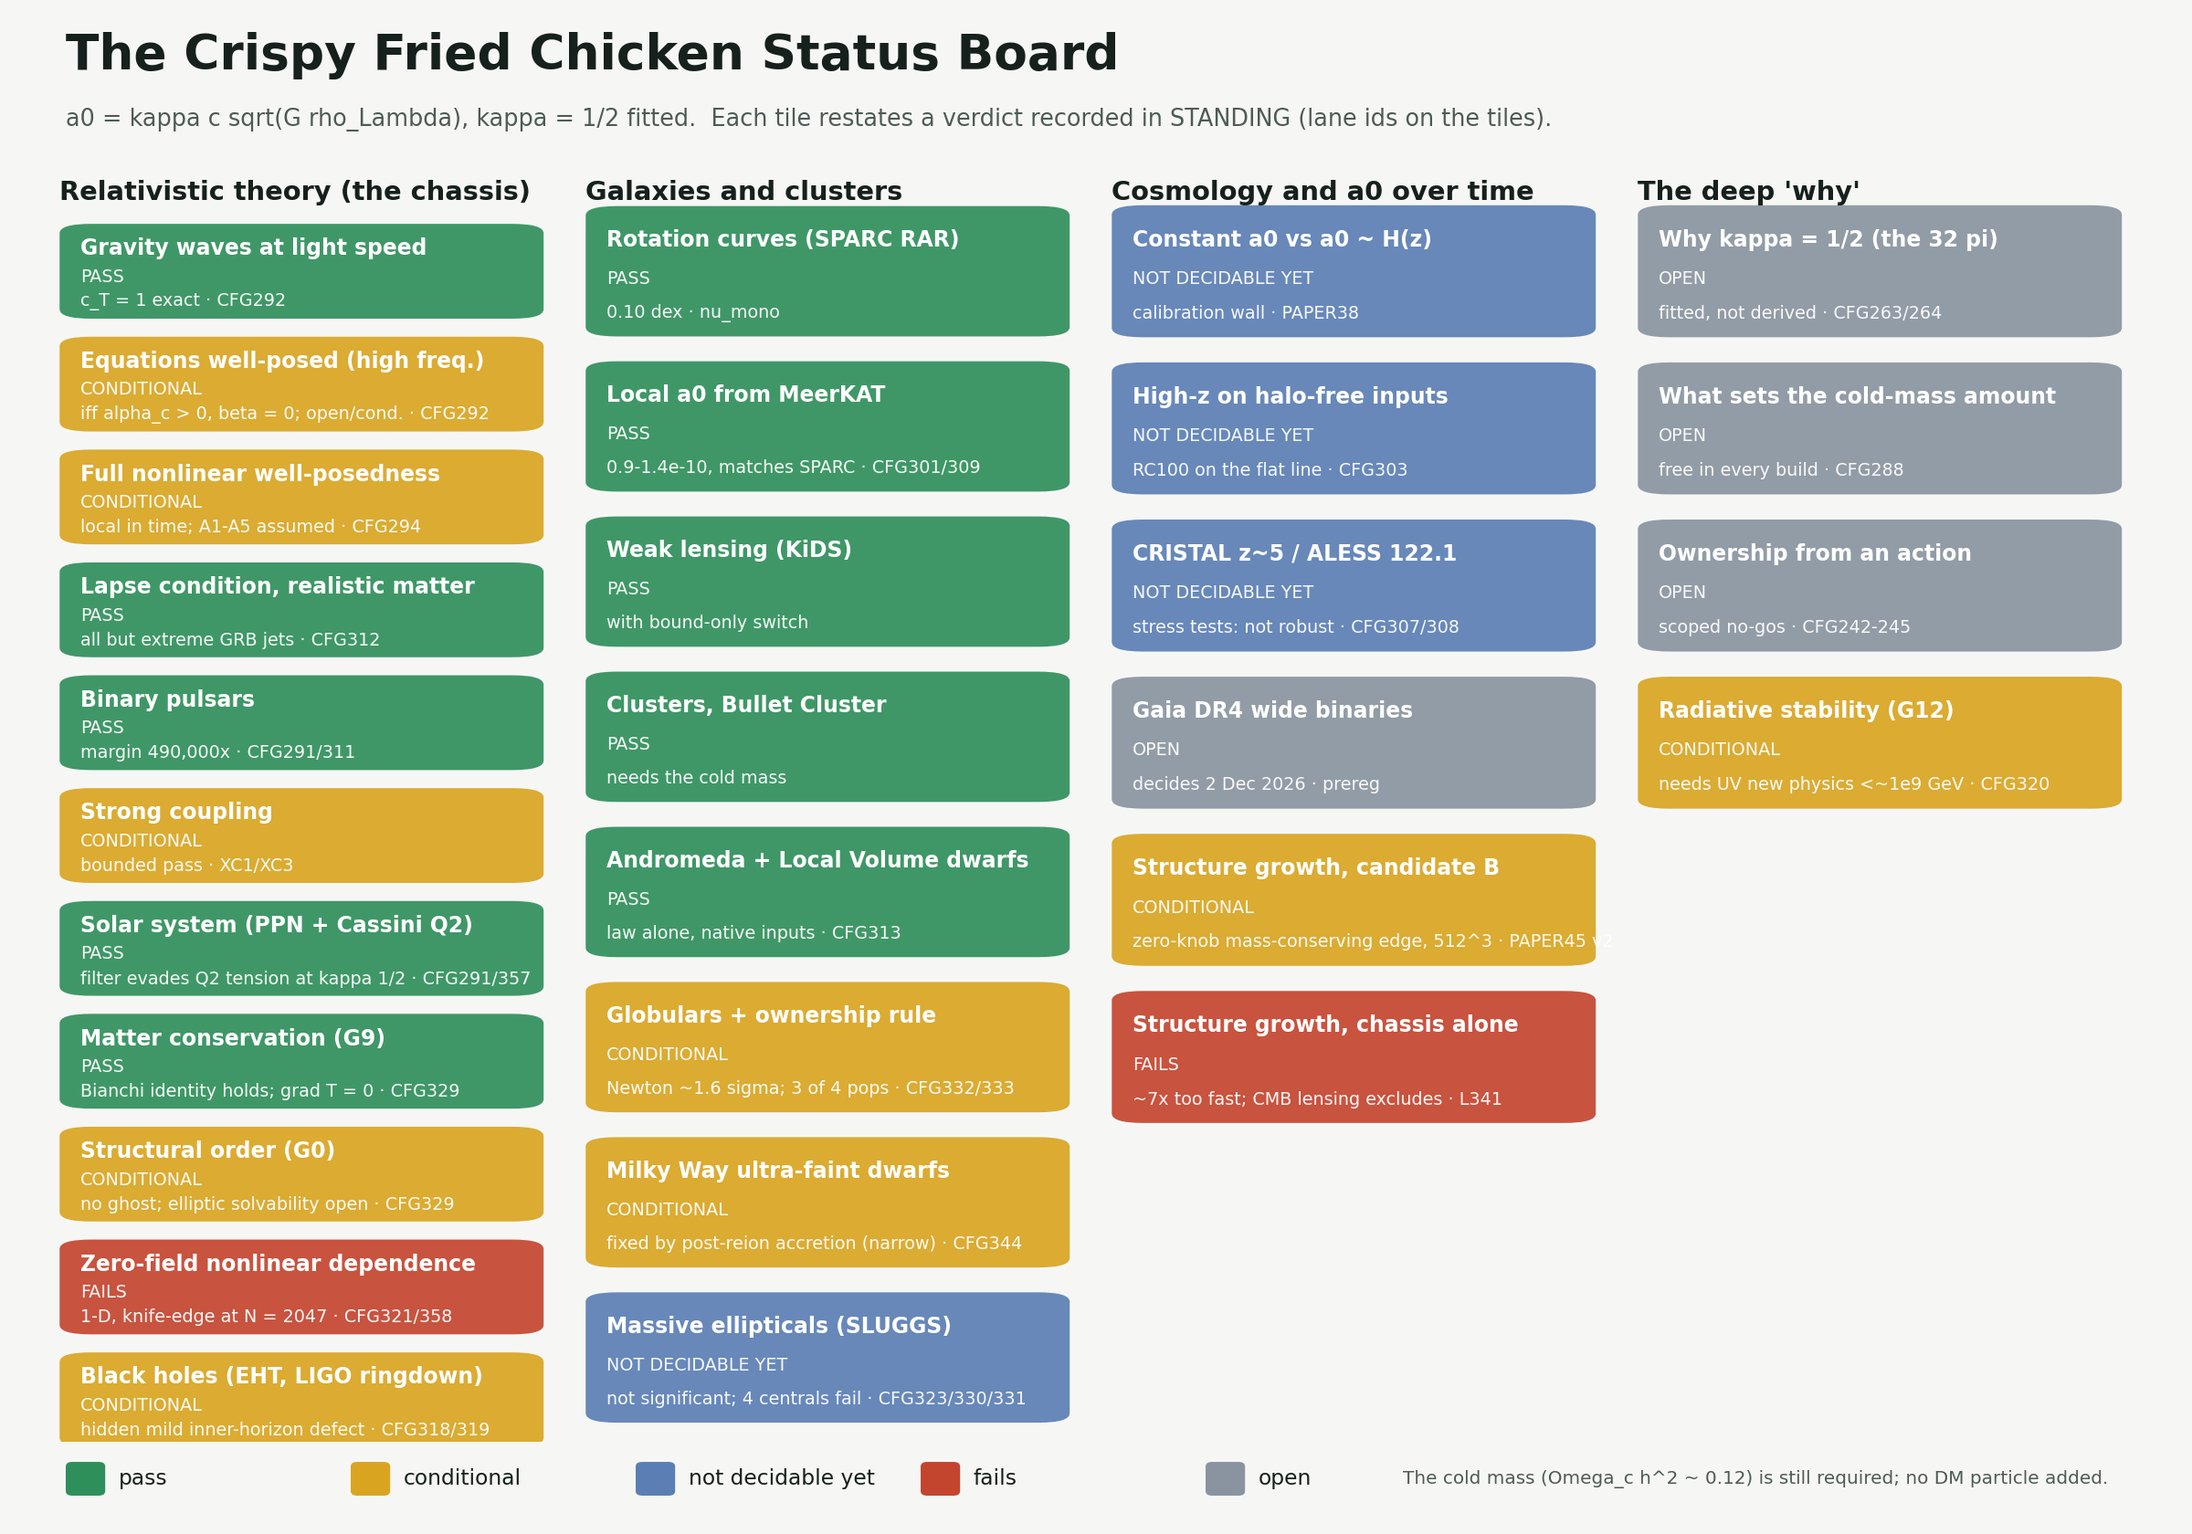
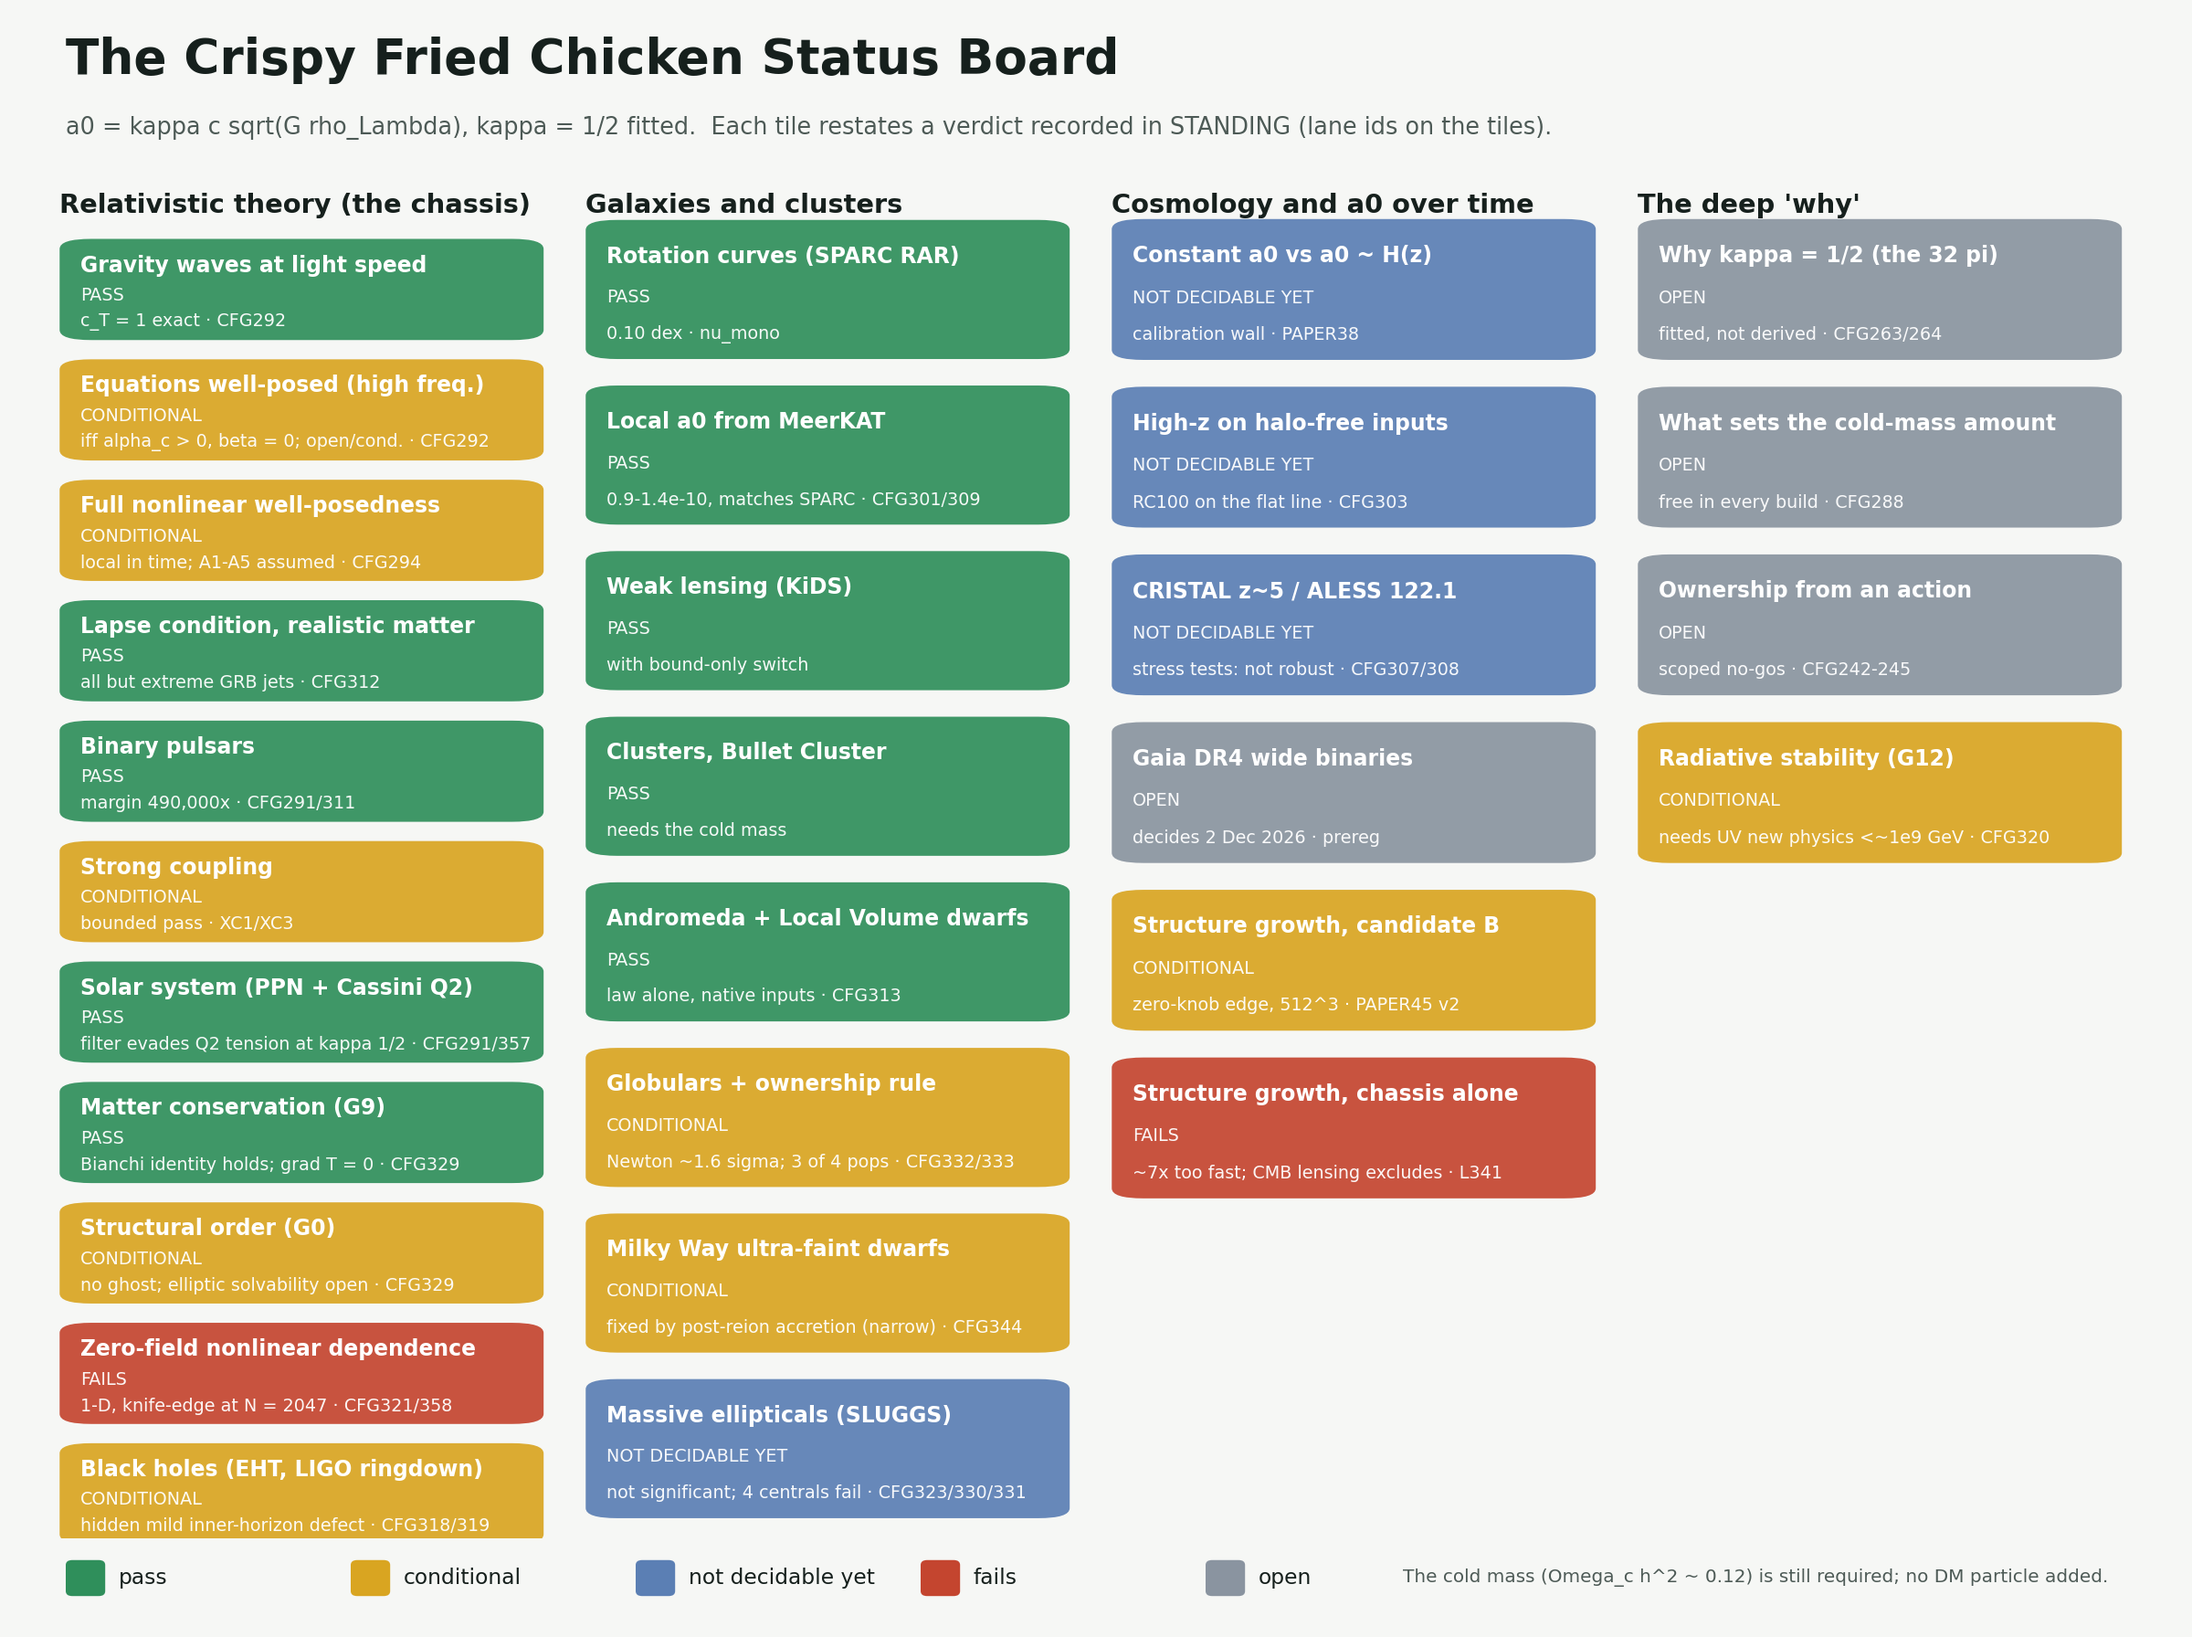
Status board: fit the growth tile text; a little more height so the last chassis tile clears the legend.

diff --git a/campaign_fresh_gravity/closure_map/status_picture_2026_10_03.py b/campaign_fresh_gravity/closure_map/status_picture_2026_10_03.py
@@ -40,7 +40,7 @@ groups = [
         ("High-z on halo-free inputs", "UNDEC", "RC100 on the flat line · CFG303"),
         ("CRISTAL z~5 / ALESS 122.1", "UNDEC", "stress tests: not robust · CFG307/308"),
         ("Gaia DR4 wide binaries", "OPEN", "decides 2 Dec 2026 · prereg"),
-        ("Structure growth, candidate B", "COND", "zero-knob mass-conserving edge, 512^3 · PAPER45 v2"),
+        ("Structure growth, candidate B", "COND", "zero-knob edge, 512^3 · PAPER45 v2"),
         ("Structure growth, chassis alone", "FAIL", "~7x too fast; CMB lensing excludes · L341"),
     ]),
     ("The deep 'why'", [
@@ -51,7 +51,7 @@ groups = [
     ]),
 ]
 
-fig = plt.figure(figsize=(15, 10.5), dpi=160)
+fig = plt.figure(figsize=(15, 11.2), dpi=160)
 fig.patch.set_facecolor("#f6f7f5")
 ax = fig.add_axes([0.02, 0.06, 0.96, 0.84]); ax.set_xlim(0, 4); ax.set_ylim(0, 8.2); ax.axis("off")
 fig.text(0.03, 0.955, "The Crispy Fried Chicken Status Board", fontsize=24, fontweight="bold", color="#16201d")
